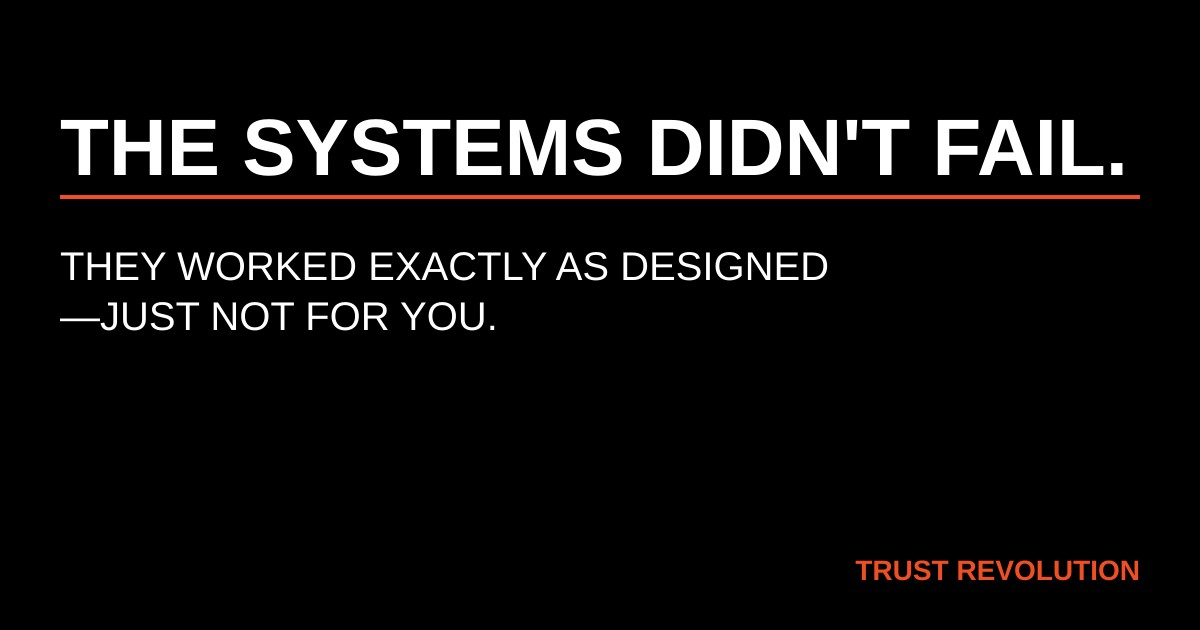
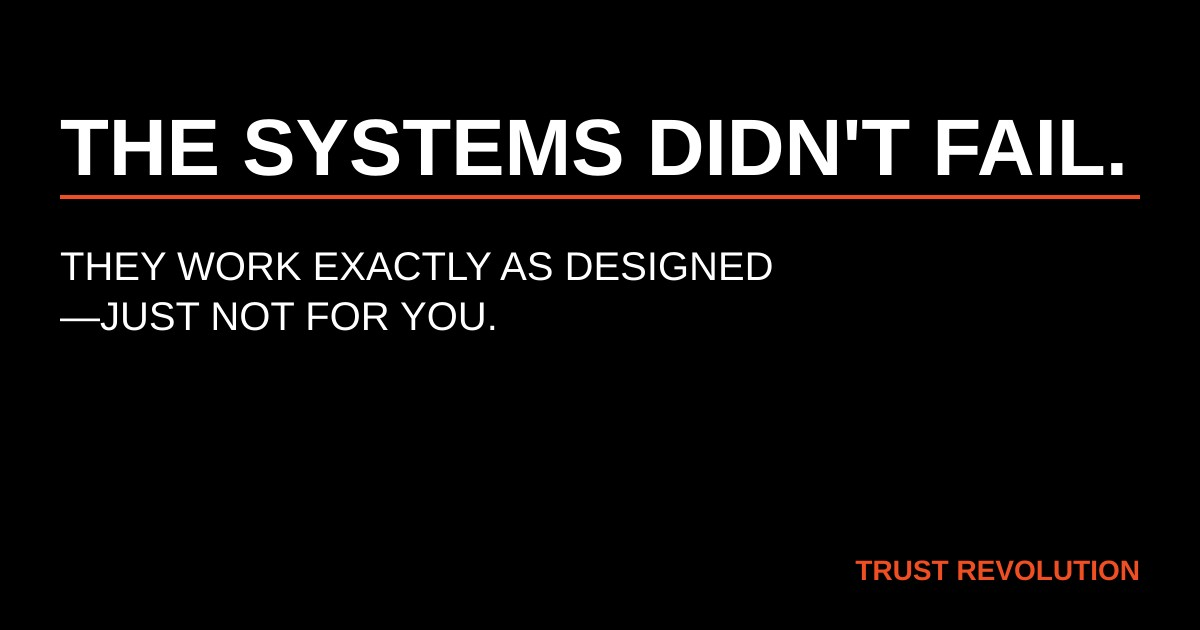
Polish Why page and Support testimonials
Why page:
- Tighten mobile vertical spacing
- Add fade-in animations for consistency
- Copy tweak: "Some people saw it coming"
- Refactor CSS: .why-poster → .why-page, use .container
- Fix width to match other pages

Support testimonials:
- Remove HR borders, tighter spacing
- Add em-dash before attribution

Footer:
- Single row with links not in header (Guests, Essays, Nostr, Email)

🤖 Generated with [Claude Code](https://claude.com/claude-code)

Changed region(s): [[0.2467, 0.3921, 0.7092, 0.4524]]

diff --git a/assets/css/main.css b/assets/css/main.css
@@ -566,26 +566,9 @@ blockquote,
 
 .footer-nav {
   display: flex;
-  flex-direction: column;
-  align-items: center;
-  gap: var(--spacing-xs);
-}
-
-.footer-primary,
-.footer-secondary {
-  display: flex;
   flex-wrap: wrap;
   justify-content: center;
   gap: var(--spacing-xs) var(--spacing-md);
-}
-
-.footer-secondary a {
-  font-size: var(--font-size-xs);
-  opacity: 0.6;
-}
-
-.footer-secondary a:hover {
-  opacity: 1;
 }
 
 .footer-nav a {
@@ -1318,19 +1301,17 @@ blockquote cite {
 .testimonial-stack {
   display: flex;
   flex-direction: column;
-  gap: var(--spacing-xl);
+  gap: var(--spacing-md);
 }
 
 /* Individual quote — big, bold, editorial */
 .testimonial-quote {
   margin: 0;
-  padding: 0 0 var(--spacing-lg);
-  border-bottom: var(--border-thin) solid var(--border-dark);
+  padding: 0 0 var(--spacing-md);
   position: relative;
 }
 
 .testimonial-quote:last-child {
-  border-bottom: none;
   padding-bottom: 0;
 }
 
@@ -1344,7 +1325,7 @@ blockquote cite {
   font-weight: 500;
   line-height: var(--line-height-normal);
   position: relative;
-  padding-left: var(--spacing-md);
+  padding-left: var(--spacing-sm);
 }
 
 .testimonial-quote blockquote::before {
@@ -1360,7 +1341,7 @@ blockquote cite {
 
 .testimonial-quote figcaption {
   margin-top: var(--spacing-sm);
-  padding-left: var(--spacing-md);
+  padding-left: var(--spacing-sm);
 }
 
 .testimonial-quote figcaption a {
@@ -1936,7 +1917,7 @@ input:focus-visible {
   .support-testimonials { padding: var(--spacing-xl) 0; }
 
   .testimonial-quote {
-    padding-bottom: var(--spacing-xl);
+    padding-bottom: var(--spacing-md);
   }
 
   .testimonial-quote blockquote {
@@ -1946,7 +1927,7 @@ input:focus-visible {
     line-height: var(--line-height-tight);
     text-transform: uppercase;
     letter-spacing: var(--tracking-normal);
-    padding-left: var(--spacing-xl);
+    padding-left: var(--spacing-md);
   }
 
   .testimonial-quote blockquote::before {
@@ -1955,7 +1936,7 @@ input:focus-visible {
   }
 
   .testimonial-quote figcaption {
-    padding-left: var(--spacing-xl);
+    padding-left: var(--spacing-md);
   }
 
   .support-newsletter { padding: var(--spacing-xl) 0; }
@@ -2296,24 +2277,19 @@ input:focus-visible {
 /* ============================================
    WHY — Editorial Brutalist
    ============================================ */
-.why-poster {
+.why-page {
   background: var(--bg-black);
   color: var(--bg-white);
-  padding: 2rem 1.5rem;
-}
-
-.poster-content {
-  max-width: 900px;
-  margin: 0 auto;
+  padding: 2rem 0;
 }
 
 /* Accusations */
 .accusations {
-  margin-bottom: 3rem;
+  margin-bottom: 1.5rem;
 }
 
 .accusation {
-  margin-bottom: 2.5rem;
+  margin-bottom: 1rem;
   padding-left: 1.5rem;
   border-left: 4px solid var(--accent-orange);
 }
@@ -2340,17 +2316,17 @@ input:focus-visible {
 }
 
 /* Divider */
-.why-poster .divider {
+.why-page .divider {
   border: none;
   height: 4px;
   background: var(--accent-orange);
-  margin: 3rem 0;
+  margin: 1.25rem 0;
 }
 
 /* Pivot */
 .pivot {
   text-align: center;
-  padding: 2rem 0;
+  padding: 0.5rem 0;
 }
 
 .pivot-setup {
@@ -2372,7 +2348,7 @@ input:focus-visible {
 /* Builders */
 .builders {
   text-align: center;
-  padding: 2rem 0;
+  padding: 0.5rem 0;
 }
 
 .builders-setup {
@@ -2387,14 +2363,16 @@ input:focus-visible {
   color: var(--bg-white);
   text-transform: uppercase;
   line-height: 1.2;
-  margin: 0 0 2rem;
+  margin: 0 0 1rem;
 }
 
 /* Solutions */
 .solutions {
   display: flex;
   flex-direction: column;
-  gap: 1rem;
+  align-items: center;
+  gap: 0.5rem;
+  text-align: center;
 }
 
 .solution {
@@ -2404,12 +2382,16 @@ input:focus-visible {
   line-height: 1.4;
 }
 
+.solution-keyword {
+  color: var(--accent-orange);
+}
+
 
 /* CTA Band */
 .cta-band {
   background: var(--accent-orange);
   padding: 1.5rem;
-  margin-top: 3rem;
+  margin-top: 1.5rem;
   display: flex;
   flex-direction: column;
   align-items: center;
@@ -2442,13 +2424,38 @@ input:focus-visible {
 
 /* Tablet+ */
 @media (min-width: 768px) {
-  .why-poster {
+  .why-page {
     padding: 4rem 2rem;
   }
 
-  .accusation {
+  .accusations {
     margin-bottom: 3rem;
+  }
+
+  .accusation {
+    margin-bottom: 2.5rem;
     padding-left: 2rem;
+  }
+
+  .why-page .divider {
+    margin: 3rem 0;
+  }
+
+  .pivot,
+  .builders {
+    padding: 2rem 0;
+  }
+
+  .builders-action {
+    margin-bottom: 2rem;
+  }
+
+  .solutions {
+    gap: 1rem;
+  }
+
+  .cta-band {
+    margin-top: 3rem;
   }
 
   .accusation .setup {

diff --git a/layouts/_default/why.html b/layouts/_default/why.html
@@ -1,9 +1,9 @@
 {{ define "main" }}
-<article class="why-poster seamless-to-footer">
-  <div class="poster-content">
+<article class="why-page seamless-to-footer">
+  <div class="container">
 
     {{/* Accusations block */}}
-    <div class="accusations">
+    <div class="accusations fade-in">
       {{ range .Params.accusations }}
       <div class="accusation">
         <p class="setup">You were told to {{ .target }}.</p>
@@ -13,31 +13,34 @@
     </div>
 
     {{/* Divider */}}
-    <hr class="divider">
+    <hr class="divider fade-in delay-1">
 
     {{/* Pivot */}}
-    <div class="pivot">
+    <div class="pivot fade-in delay-1">
       <p class="pivot-setup">{{ .Params.pivot.line1 }}</p>
       <p class="pivot-reveal">{{ .Params.pivot.line2 }}</p>
     </div>
 
     {{/* Divider */}}
-    <hr class="divider">
+    <hr class="divider fade-in delay-2">
 
     {{/* Builders / Hope */}}
-    <div class="builders">
+    <div class="builders fade-in delay-2">
       <p class="builders-setup">{{ .Params.builders.intro }}</p>
       <p class="builders-action">{{ .Params.builders.action }}</p>
 
       <div class="solutions">
         {{ range .Params.builders.solutions }}
-        <p class="solution">{{ . }}</p>
+        {{ $words := split . " " }}
+        {{ $first := index $words 0 }}
+        {{ $rest := slicestr . (add (len $first) 1) }}
+        <p class="solution"><span class="solution-keyword">{{ $first }}</span> {{ $rest }}</p>
         {{ end }}
       </div>
     </div>
 
     {{/* CTA Band */}}
-    <div class="cta-band">
+    <div class="cta-band fade-in delay-3">
       <span class="cta-text">{{ .Params.invitation.text }}</span>
       <a href="/episodes/" class="cta-button">{{ .Params.invitation.cta }}</a>
     </div>

diff --git a/layouts/partials/footer.html b/layouts/partials/footer.html
@@ -1,18 +1,10 @@
 <footer class="site-footer">
   <div class="container">
     <nav class="footer-nav" aria-label="Footer navigation">
-      <div class="footer-primary">
-        <a href="/episodes/">Episodes</a>
-        <a href="/guests/">Guests</a>
-        <a href="/essays/">Essays</a>
-        <a href="/about/">About</a>
-        <a href="/why/">Why</a>
-        <a href="/support/">Support</a>
-      </div>
-      <div class="footer-secondary">
-        <a href="https://primal.net/p/nprofile1qqs937g9lksy25es6h5c502d78shc3f2knq76ey0xu03qqj5g77fcygf09a6v">Nostr</a>
-        <a href="mailto:hello@trustrevolution.co">Email</a>
-      </div>
+      <a href="/guests/">Guests</a>
+      <a href="/essays/">Essays</a>
+      <a href="https://primal.net/p/nprofile1qqs937g9lksy25es6h5c502d78shc3f2knq76ey0xu03qqj5g77fcygf09a6v" target="_blank" rel="noopener">Nostr</a>
+      <a href="mailto:hello@trustrevolution.co">Email</a>
     </nav>
     <p class="footer-copyright">&copy; {{ now.Year }} Trust Revolution. Stream sats, not ads.</p>
   </div>

diff --git a/layouts/_default/support.html b/layouts/_default/support.html
@@ -40,7 +40,7 @@
         <figure class="testimonial-quote fade-in" style="--delay: {{ add 2.5 (mul $i 0.5) }}">
           <blockquote>{{ $t.quote }}</blockquote>
           <figcaption>
-            <a href="{{ $t.url }}" target="_blank" rel="noopener">{{ $t.author }}</a>
+            <a href="{{ $t.url }}" target="_blank" rel="noopener">— {{ $t.author }}</a>
           </figcaption>
         </figure>
         {{ end }}

diff --git a/content/why.md b/content/why.md
@@ -4,7 +4,7 @@ description: "Banks freeze accounts. Platforms sell data. Institutions don't tru
 layout: "why"
 og_headline: "THE SYSTEMS DIDN'T FAIL."
 og_subtext:
-  - "THEY WORKED EXACTLY AS DESIGNED"
+  - "THEY WORK EXACTLY AS DESIGNED"
   - "—JUST NOT FOR YOU."
 
 accusations:
@@ -19,15 +19,15 @@ accusations:
 
 pivot:
   line1: "The systems didn't fail."
-  line2: "They worked exactly as designed—just not for you."
+  line2: "They work exactly as designed—just not for you."
 
 builders:
-  intro: "Some people refuse to accept it."
+  intro: "Some people saw it coming."
   action: "They're building the alternative."
   solutions:
-    - "Money no one can freeze."
-    - "Communication no one can censor."
-    - "Identity that proves without exposing."
+    - "MONEY no one can freeze."
+    - "COMMUNICATION no one can censor."
+    - "IDENTITY that proves without exposing."
 
 invitation:
   text: "This is where you meet them."
